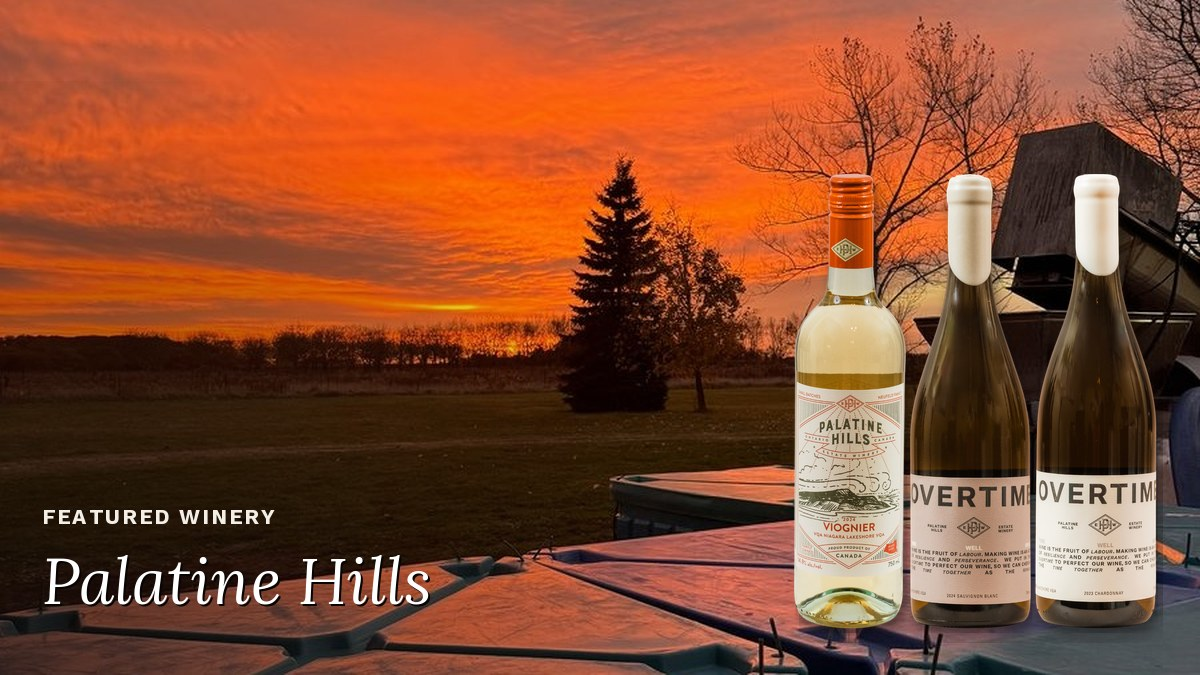
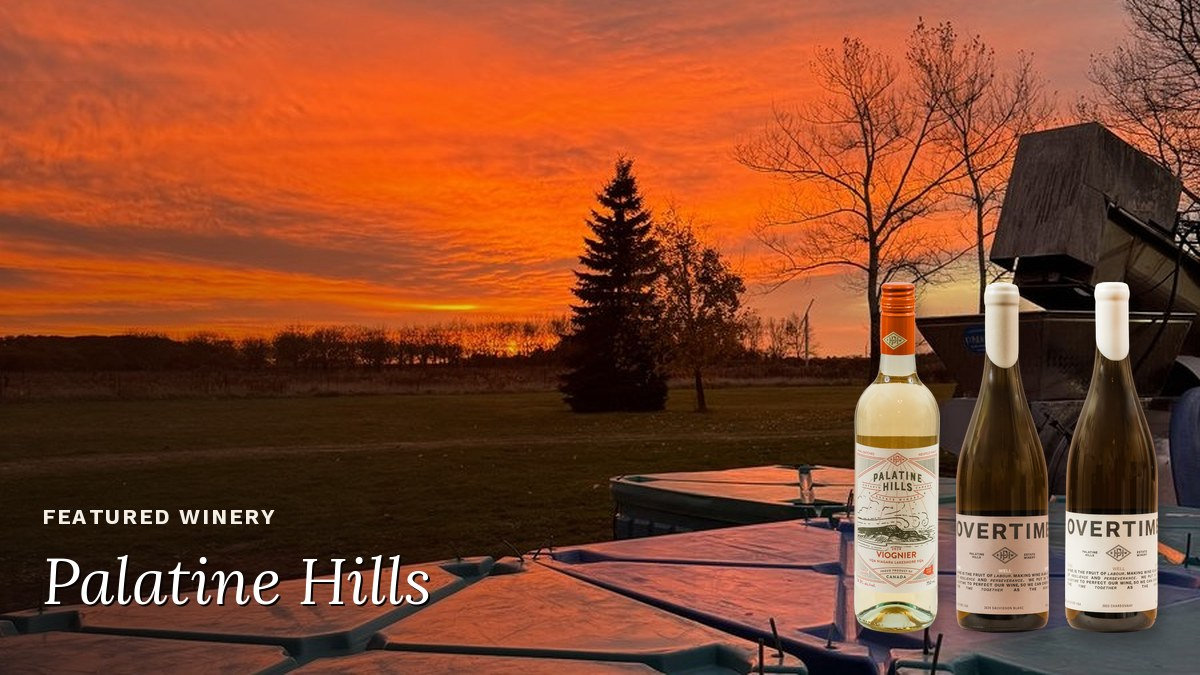
Palatine Hills: 12-bottle bundle and hero, shadow-box fix in hero/bundle scripts, email-sized bundles

Changed region(s): [[0.6475, 0.2489, 0.9867, 0.9644]]

diff --git a/scripts/pack_group.py b/scripts/pack_group.py
@@ -32,11 +32,11 @@ OVERLAP_FRAC = -0.04  # small gap, no overlap: an overlapping neighbour clips th
 MAX_PER_ROW = 6  # beyond this many bottles, wrap to a second row rather than one very wide strip
 
 
-def _row_count(n: int) -> int:
-    return math.ceil(n / MAX_PER_ROW)
+def _row_count(n: int, per_row: int = MAX_PER_ROW) -> int:
+    return math.ceil(n / per_row)
 
 
-def build_group(bottle_paths, output_path, bottle_h_frac=BOTTLE_H_FRAC, overlap_frac=OVERLAP_FRAC):
+def build_group(bottle_paths, output_path, bottle_h_frac=BOTTLE_H_FRAC, overlap_frac=OVERLAP_FRAC, max_per_row=MAX_PER_ROW):
     used, skipped = [], []
     bottles = []
     for p in bottle_paths:
@@ -50,7 +50,7 @@ def build_group(bottle_paths, output_path, bottle_h_frac=BOTTLE_H_FRAC, overlap_
     if not bottles:
         raise RuntimeError("No bottles could be placed — every source image was skipped.")
 
-    rows = _row_count(len(bottles))
+    rows = _row_count(len(bottles), max_per_row)
     per_row = math.ceil(len(bottles) / rows)
     row_groups = [bottles[i * per_row:(i + 1) * per_row] for i in range(rows)]
 
@@ -92,11 +92,16 @@ def build_group(bottle_paths, output_path, bottle_h_frac=BOTTLE_H_FRAC, overlap_
         x_offset = pad_x + (canvas_content_w - total) // 2  # centre shorter rows under longer ones
         for i, im in enumerate(row):
             x_pos = positions[i] + x_offset
-            shadow_alpha = im.split()[-1].point(lambda a: int(a * 0.28))
-            shadow = Image.new("RGBA", im.size, (10, 5, 5, 255))
-            shadow.putalpha(shadow_alpha)
-            shadow = shadow.filter(ImageFilter.GaussianBlur(9))
-            canvas.alpha_composite(shadow, (x_pos + 4, y + 12))
+            # Blur on a padded canvas: blurring inside a canvas cut to the bottle clips the shadow into a hard box.
+            sp = 30
+            base = Image.new("L", (im.size[0] + 2 * sp, im.size[1] + 2 * sp), 0)
+            base.paste(im.split()[-1].point(lambda a: int(a * 0.28)), (sp, sp))
+            shadow = Image.new("RGBA", base.size, (10, 5, 5, 255))
+            shadow.putalpha(base.filter(ImageFilter.GaussianBlur(9)))
+            sx, sy = x_pos + 4 - sp, y + 12 - sp
+            if sx < 0 or sy < 0:
+                shadow = shadow.crop((max(0, -sx), max(0, -sy), shadow.width, shadow.height))
+            canvas.alpha_composite(shadow, (max(0, sx), max(0, sy)))
             canvas.alpha_composite(im, (x_pos, y))
         y += bottle_h + row_gap
 
@@ -109,13 +114,14 @@ def main():
     ap = argparse.ArgumentParser(description=__doc__, formatter_class=argparse.RawDescriptionHelpFormatter)
     ap.add_argument("--bottles", required=True, type=Path, nargs="+")
     ap.add_argument("--output", required=True, type=Path)
+    ap.add_argument("--max-per-row", type=int, default=MAX_PER_ROW, help="bottles per row before wrapping (default 6); use 12 for one wide row")
     args = ap.parse_args()
 
     missing = [str(p) for p in args.bottles if not p.exists()]
     if missing:
         sys.exit(f"Bottle image(s) not found: {', '.join(missing)}")
 
-    used, skipped, size = build_group(args.bottles, args.output)
+    used, skipped, size = build_group(args.bottles, args.output, max_per_row=args.max_per_row)
 
     print(f"\nWrote {args.output} ({size[0]}x{size[1]}, transparent)")
     print(f"\nBottles used ({len(used)}):")

diff --git a/scripts/composite_hero.py b/scripts/composite_hero.py
@@ -242,11 +242,19 @@ def add_winery_name(canvas: Image.Image, winery_name: str, eyebrow: str = "FEATU
 
 
 def add_shadow(canvas: Image.Image, bottle: Image.Image, pos: tuple[int, int]):
-    alpha = bottle.split()[-1].point(lambda a: int(a * 0.32))
-    shadow = Image.new("RGBA", bottle.size, (10, 5, 5, 255))
-    shadow.putalpha(alpha)
-    shadow = shadow.filter(ImageFilter.GaussianBlur(7))
-    canvas.alpha_composite(shadow, (pos[0] + 5, pos[1] + 10))
+    # Blur on a padded canvas. Blurring inside a canvas cut exactly to the bottle leaves a hard vertical
+    # edge where the shadow is clipped, which reads as a dark box behind every bottle.
+    pad = 28
+    w, h = bottle.size
+    base = Image.new("L", (w + 2 * pad, h + 2 * pad), 0)
+    base.paste(bottle.split()[-1].point(lambda a: int(a * 0.32)), (pad, pad))
+    shadow = Image.new("RGBA", base.size, (10, 5, 5, 255))
+    shadow.putalpha(base.filter(ImageFilter.GaussianBlur(7)))
+    x, y = pos[0] + 5 - pad, pos[1] + 10 - pad
+    cx0, cy0 = max(0, -x), max(0, -y)
+    if cx0 or cy0:
+        shadow = shadow.crop((cx0, cy0, shadow.width, shadow.height))
+    canvas.alpha_composite(shadow, (max(0, x), max(0, y)))
 
 
 def build_hero(background_path: Path, bottle_paths: list[Path], output_path: Path, scale: float = 1.0,
